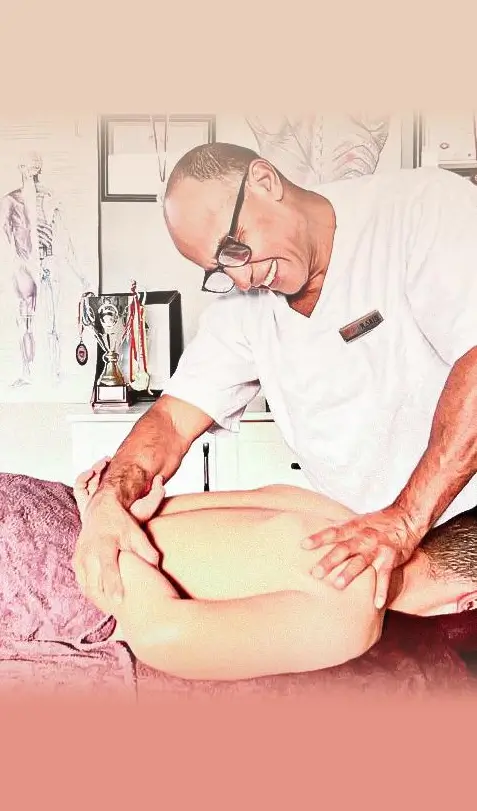
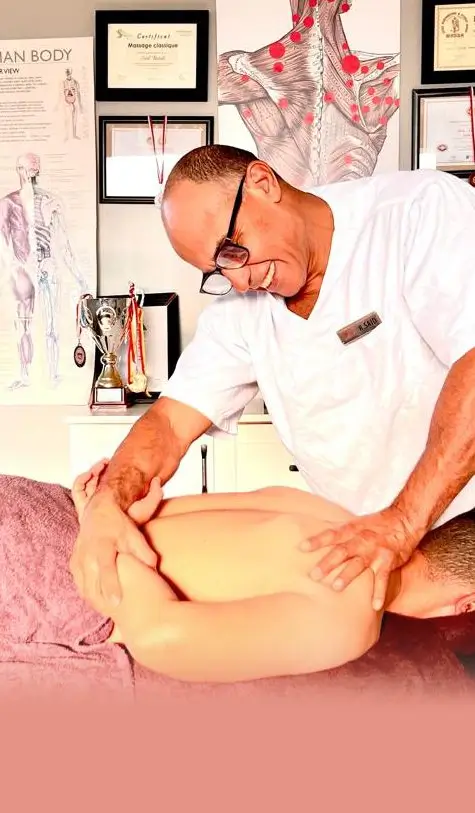
Last Commit
Last Commit

diff --git a/tailwind.config.js b/tailwind.config.js
@@ -13,7 +13,7 @@ export default {
         },
         backgroundImage: {
             'HomeBg': "url('/public/Images/Accueil.webp')",
-            'HomeBgMobile': "url('/public/Images/AccueilMobile.jpg')",
+            'HomeBgMobile': "url('/public/Images/AccueilMobile.webp')",
             'CoachingBg': "url('/public/Images/coaching.webp')",
             'MassotherapieBg': "url('/public/Images/massotherapie.webp')",
         },
